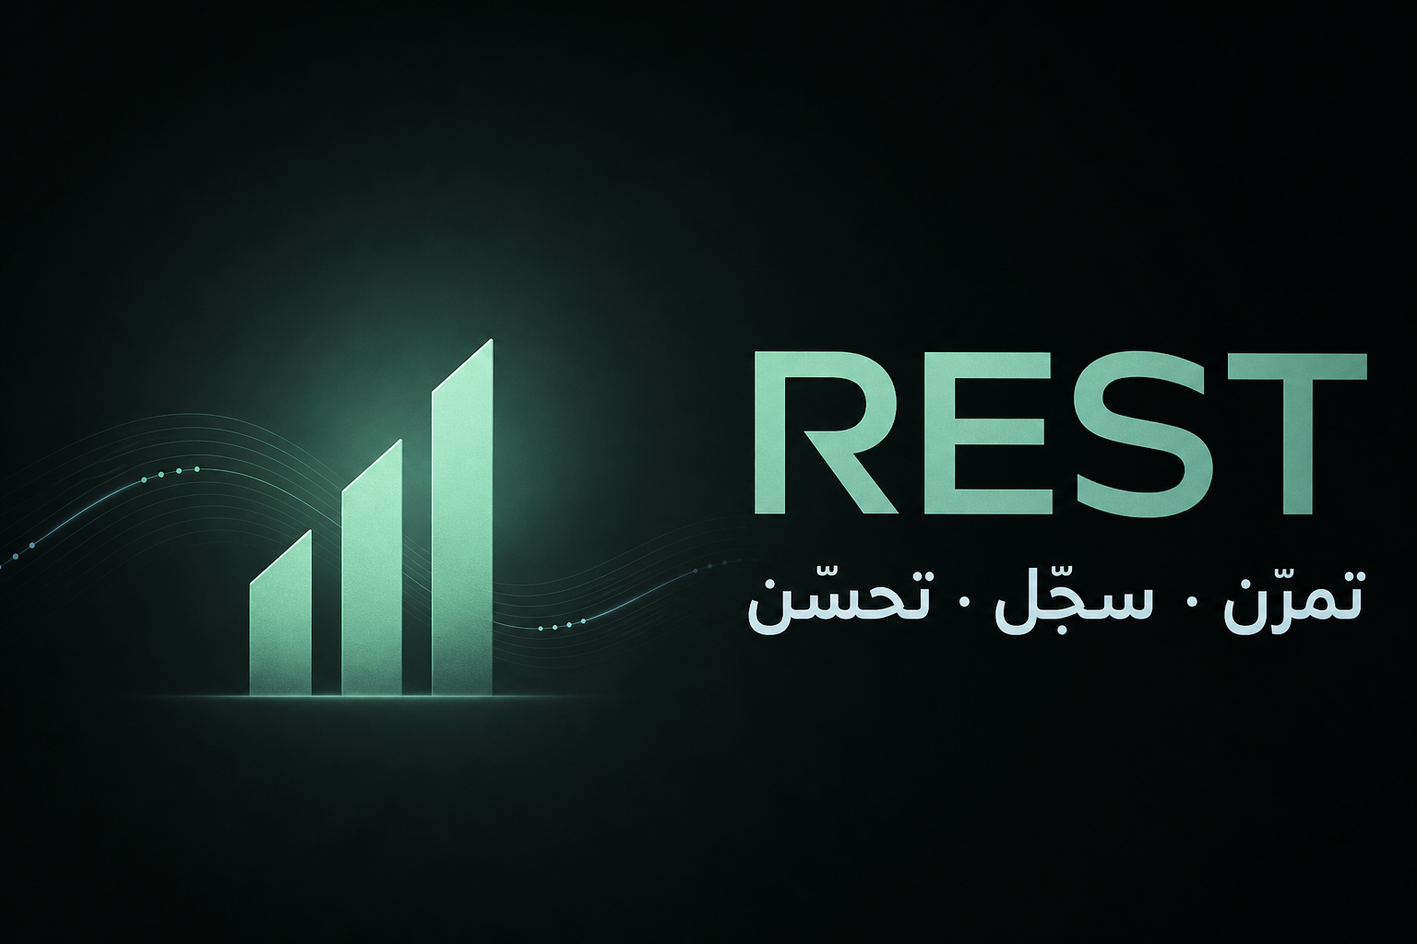
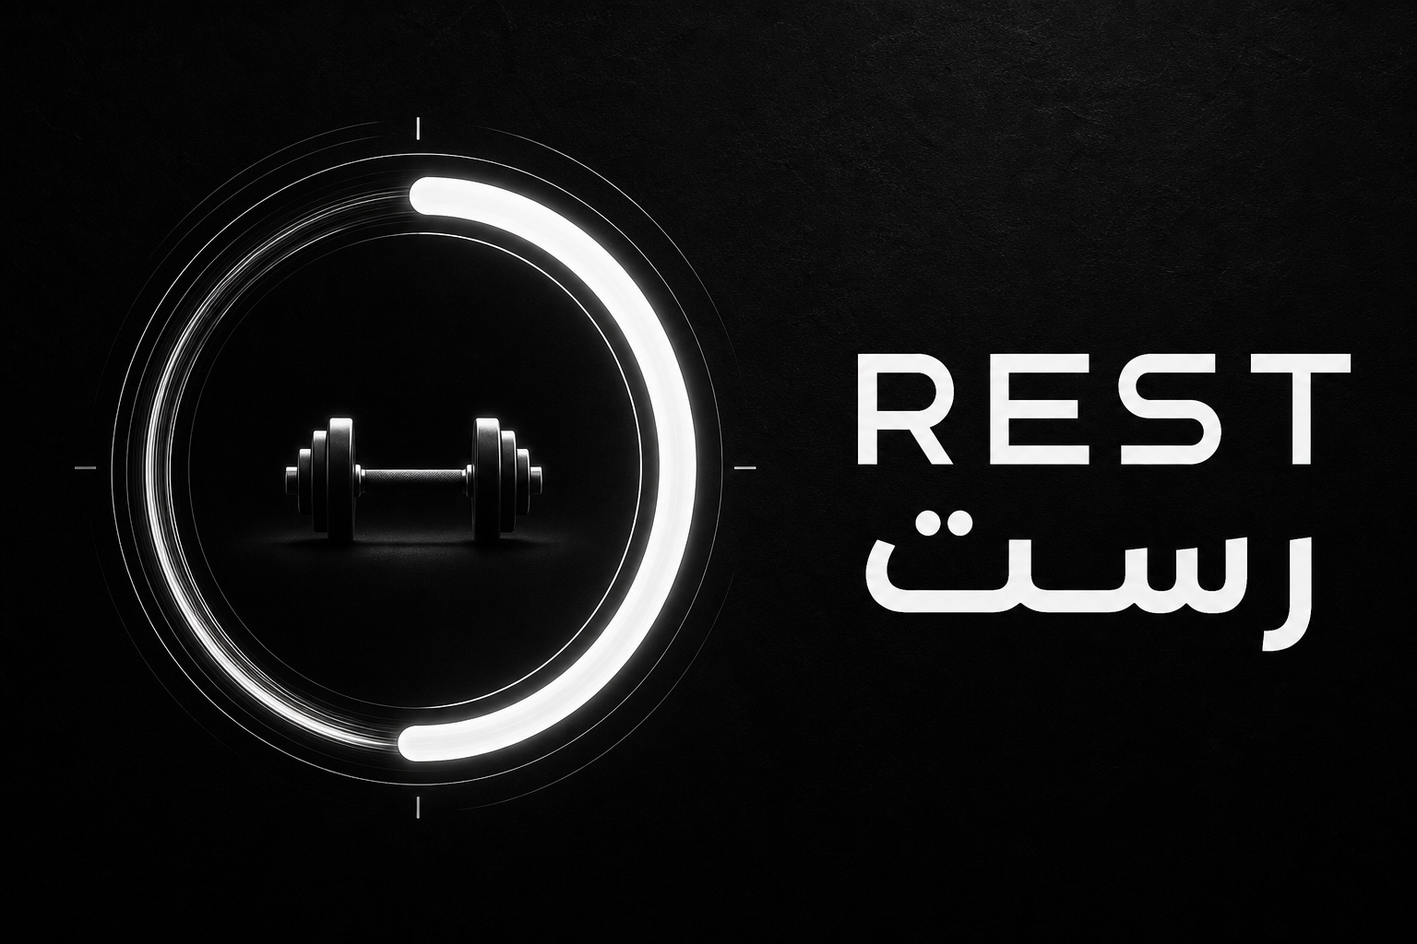
Redesign REST mobile fitness experience

diff --git a/web/app/page.tsx b/web/app/page.tsx
@@ -189,6 +189,14 @@ function formatDuration(startedAt: string) {
   return hours ? `${hours}:${String(minutes % 60).padStart(2, "0")}` : `${minutes} د`;
 }
 
+function mealEmoji(category: string) {
+  const emojis: Record<string, string> = {
+    "فطور": "🥣", "غداء": "🍛", "عشاء": "🍽", "سناك": "🍎",
+    "قبل التمرين": "⚡", "بعد التمرين": "💪",
+  };
+  return emojis[category] ?? "🍴";
+}
+
 function sumMeal(meals: Meal[]) {
   return meals.reduce(
     (sum, meal) => ({
@@ -716,16 +724,14 @@ export default function Home() {
 
   const todayContent = (
     <>
-      <header className="page-heading">
-        <div>
-          <p className="eyebrow">{todayLabel}</p>
-          <h1>صباح القوة يا OREZ</h1>
-        </div>
-        <div className="sync-badge"><span /> {supabaseConfigured ? "Supabase + حفظ محلي" : "محفوظ محليًا"}</div>
+      <header className="daily-heading">
+        <div className="daily-date"><span className="pulse-dot" /> {todayLabel}</div>
+        <h1>تحرّك على إيقاعك.</h1>
+        <p>خطوة صغيرة الآن، وأثر كبير لاحقًا.</p>
       </header>
 
       {data.activeWorkout ? (
-        <section className="hero-card active-hero">
+        <section className="daily-focus active-hero">
           <div className="hero-icon"><Activity size={24} /></div>
           <div>
             <p>تمرين جارٍ الآن</p>
@@ -737,40 +743,41 @@ export default function Home() {
           </button>
         </section>
       ) : (
-        <section className="hero-card">
-          <div className="hero-icon"><Dumbbell size={24} /></div>
+        <section className="daily-focus">
+          <div className="focus-number">01</div>
           <div>
-            <p>التمرين</p>
-            <h2>ماذا ستنجز اليوم؟</h2>
-            <span>ابدأ بحصة فارغة أو من جدول أنشأته.</span>
+            <p>أولوية اليوم</p>
+            <h2>جاهز لتمرينك؟</h2>
+            <span>ابدأ الآن، واختر التمارين داخل النادي.</span>
           </div>
-          <AppButton onClick={() => startWorkout()} icon={<Plus size={18} />}>ابدأ</AppButton>
+          <AppButton onClick={() => startWorkout()} icon={<ArrowLeft size={18} />}>ابدأ التمرين</AppButton>
         </section>
       )}
 
-      <section className="section-block">
+      <section className="section-block today-pulse">
         <div className="section-title">
-          <div><p className="eyebrow">لقطة اليوم</p><h2>المهم الآن</h2></div>
+          <div><p className="eyebrow">لوحة اليوم</p><h2>كل شيء في لمحة</h2></div>
+          <div className="sync-badge"><span /> {supabaseConfigured ? "متزامن" : "محفوظ على جهازك"}</div>
         </div>
         <div className="status-grid">
           <article className="status-card status-workout">
             <Dumbbell size={20} />
-            <p>التمرين</p>
+            <p>الحركة</p>
             <strong>{data.sessions.length ? "تمارينك محفوظة" : "لم تُسجّل بعد"}</strong>
           </article>
           <article className="status-card status-nutrition">
             <Flame size={20} />
-            <p>السعرات</p>
+            <p>السعرات 🔥</p>
             <strong>{formatNumber(nutrition.calories)}{data.nutritionTarget.calories ? ` / ${formatNumber(data.nutritionTarget.calories)}` : " kcal"}</strong>
           </article>
           <article className="status-card status-protein">
             <Salad size={20} />
-            <p>البروتين</p>
+            <p>البروتين 💪</p>
             <strong>{formatNumber(nutrition.protein)}{data.nutritionTarget.protein ? ` / ${formatNumber(data.nutritionTarget.protein)} غ` : " غ"}</strong>
           </article>
           <article className="status-card status-recovery">
             <HeartPulse size={20} />
-            <p>التعافي</p>
+            <p>التعافي ✨</p>
             <strong>{data.sessions.length ? "قيد التقدير" : "بيانات غير كافية"}</strong>
           </article>
         </div>
@@ -778,12 +785,12 @@ export default function Home() {
 
       <section className="section-block compact-section">
         <div className="section-title">
-          <div><p className="eyebrow">خطوة واحدة</p><h2>إضافة سريعة</h2></div>
+          <div><p className="eyebrow">بضغطة واحدة</p><h2>إضافة سريعة</h2></div>
         </div>
         <div className="quick-actions">
-          <button onClick={() => { setTab("workout"); setWorkoutView("equipment"); setSheet("equipment"); }}><Camera size={20} /><span>جهاز</span></button>
-          <button onClick={() => setSheet("meal")}><Utensils size={20} /><span>وجبة</span></button>
-          <button onClick={() => { setTab("workout"); setSheet("template"); }}><ClipboardList size={20} /><span>جدول</span></button>
+          <button onClick={() => startWorkout()}><Dumbbell size={20} /><span>تمرين الآن</span></button>
+          <button onClick={() => setSheet("meal")}><span className="quick-emoji">🍽</span><span>وجبة</span></button>
+          <button onClick={() => { setTab("workout"); setWorkoutView("equipment"); }}><Camera size={20} /><span>المعدات</span></button>
         </div>
       </section>
     </>
@@ -792,7 +799,7 @@ export default function Home() {
   const workoutContent = (
     <>
       <header className="page-heading">
-        <div><p className="eyebrow">تمرّن بطريقتك</p><h1>التمرين</h1></div>
+        <div><p className="eyebrow">بلا جداول معقدة</p><h1>التمرين</h1></div>
         <button className="icon-button surface" onClick={() => setWorkoutView("equipment")} aria-label="إدارة المعدات"><Settings2 size={20} /></button>
       </header>
       {data.activeWorkout ? (
@@ -802,7 +809,7 @@ export default function Home() {
       ) : null}
       {workoutView !== "active" && (
         <div className="segment-control" role="tablist" aria-label="أقسام التمرين">
-          <button className={workoutView === "templates" ? "selected" : ""} onClick={() => setWorkoutView("templates")}>جداولي</button>
+          <button className={workoutView === "templates" ? "selected" : ""} onClick={() => setWorkoutView("templates")}>ابدأ الآن</button>
           <button className={workoutView === "equipment" ? "selected" : ""} onClick={() => setWorkoutView("equipment")}>المعدات</button>
         </div>
       )}
@@ -810,11 +817,10 @@ export default function Home() {
       {workoutView === "templates" && (
         <section className="section-block">
           <div className="section-title">
-            <div><p className="eyebrow">بدون خطط جاهزة</p><h2>جداولك</h2></div>
-            <button className="text-action" onClick={() => setSheet("template")}><Plus size={17} /> إنشاء</button>
+            <div><p className="eyebrow">ادخل النادي وابدأ</p><h2>تمرين مباشر</h2></div>
           </div>
           {data.templates.length === 0 ? (
-            <EmptyState icon={<FolderPlus size={27} />} title="ابنِ جدولك الأول" body="أضف معداتك وتمارينك، ثم رتّبها في جدول خاص بك." action={<AppButton onClick={() => setSheet("template")} icon={<Plus size={18} />}>إنشاء جدول</AppButton>} />
+            <EmptyState icon={<Dumbbell size={27} />} title="ابدأ من أرض النادي" body="أنشئ حصة، أضف تمرينك الحالي، وسجّل مجموعاتك فورًا. المعدات محفوظة في قسم مستقل." action={<AppButton onClick={() => startWorkout()} icon={<ArrowLeft size={18} />}>ابدأ تمرينًا</AppButton>} />
           ) : (
             <div className="template-list">
               {data.templates.map((template) => (
@@ -827,7 +833,7 @@ export default function Home() {
               ))}
             </div>
           )}
-          <div className="secondary-cta"><span>أو سجّل حصة غير مخططة</span><AppButton variant="secondary" onClick={() => startWorkout()} icon={<Dumbbell size={18} />}>تمرين فارغ</AppButton></div>
+          <div className="secondary-cta"><span>لا تحتاج خطة جاهزة لتبدأ.</span><AppButton variant="secondary" onClick={() => startWorkout()} icon={<Dumbbell size={18} />}>تمرين جديد</AppButton></div>
         </section>
       )}
 
@@ -858,7 +864,7 @@ export default function Home() {
       {workoutView === "active" && data.activeWorkout && (
         <section className="live-workout">
           <div className="live-header">
-            <button className="icon-button surface" onClick={() => setWorkoutView("templates")} aria-label="العودة للجداول"><ChevronLeft size={20} /></button>
+            <button className="icon-button surface" onClick={() => setWorkoutView("templates")} aria-label="العودة لبدء التمرين"><ChevronLeft size={20} /></button>
             <div><p className="eyebrow">حصة جارية · {formatDuration(data.activeWorkout.startedAt)}</p><h1>{data.activeWorkout.name}</h1></div>
             <button className="finish-button" onClick={finishWorkout}>إنهاء</button>
           </div>
@@ -886,9 +892,8 @@ export default function Home() {
                   {latestSetFor(activeExerciseMeta.id) ? (
                     <div className="previous-performance"><TrendingUp size={17} /><span>آخر أداء: <b>{latestSetFor(activeExerciseMeta.id)?.weightKg} كغ × {latestSetFor(activeExerciseMeta.id)?.reps}</b></span></div>
                   ) : <div className="previous-performance muted"><Sparkles size={17} /><span>هذه أول مرة تسجل هذا التمرين.</span></div>}
-                  <div className="set-table" role="table" aria-label="مجموعات التمرين">
-                    <div className="set-row set-head" role="row"><span>النوع</span><span>الوزن</span><span>التكرارات</span><span>RIR</span></div>
-                    {activeExercise.sets.length === 0 ? <p className="no-sets">أضف مجموعة العمل الأولى — ستظهر هنا فور حفظها.</p> : activeExercise.sets.map((set, index) => <div className="set-row" role="row" key={set.id}><span>{set.type === "warmup" ? "إحماء" : `#${index + 1}`}</span><b dir="ltr">{set.weightKg} كغ</b><b dir="ltr">{set.reps}</b><span>{set.rir ?? "—"}</span></div>)}
+                  <div className="set-history" aria-label="مجموعات التمرين">
+                    {activeExercise.sets.length === 0 ? <p className="no-sets">أضف أول مجموعة وستظهر كإنجاز بسيط هنا.</p> : activeExercise.sets.map((set, index) => <article className="set-chip" key={set.id}><span className="set-index">{set.type === "warmup" ? "إحماء" : `مجموعة ${index + 1}`}</span><b dir="ltr">{set.weightKg} <small>كغ</small></b><b dir="ltr">× {set.reps}</b><span>RIR {set.rir ?? "—"}</span></article>)}
                   </div>
                   <form
                     className="quick-set-composer"
@@ -930,21 +935,21 @@ export default function Home() {
           <div><span>السعرات</span><strong>{formatNumber(nutrition.calories)}</strong><small>{data.nutritionTarget.calories ? `من ${formatNumber(data.nutritionTarget.calories)}` : "حدد هدفك"}</small></div>
         </div>
         <div className="macro-summary">
-          <p className="eyebrow">اليوم</p>
-          <h2>{data.nutritionTarget.calories ? `${formatNumber(Math.max(0, data.nutritionTarget.calories - nutrition.calories))} kcal متبقية` : "حدّد أهدافك أولًا"}</h2>
+          <p className="eyebrow">اليوم 🍽</p>
+          <h2>{data.nutritionTarget.calories ? `${formatNumber(Math.max(0, data.nutritionTarget.calories - nutrition.calories))} kcal متبقية` : "حدّد أهدافك أولًا ✨"}</h2>
           <button className="text-action" onClick={openTargetSheet}><Settings2 size={16} /> ضبط الأهداف</button>
         </div>
       </section>
       <div className="macro-grid">
         {[
-          ["بروتين", nutrition.protein, data.nutritionTarget.protein, "protein"],
-          ["كربوهيدرات", nutrition.carbs, data.nutritionTarget.carbs, "carbs"],
-          ["دهون", nutrition.fat, data.nutritionTarget.fat, "fat"],
+          ["بروتين 💪", nutrition.protein, data.nutritionTarget.protein, "protein"],
+          ["كربوهيدرات ⚡", nutrition.carbs, data.nutritionTarget.carbs, "carbs"],
+          ["دهون 🥑", nutrition.fat, data.nutritionTarget.fat, "fat"],
         ].map(([label, current, target, tone]) => <article className="macro-card" key={String(label)}><div><span>{label}</span><b>{formatNumber(Number(current))} غ</b></div><div className="macro-track"><span className={String(tone)} style={{ width: `${Number(target) ? Math.min(100, (Number(current) / Number(target)) * 100) : 0}%` }} /></div><small>{Number(target) ? `من ${formatNumber(Number(target))} غ` : "لا يوجد هدف"}</small></article>)}
       </div>
       <section className="section-block">
         <div className="section-title"><div><p className="eyebrow">وجبات اليوم</p><h2>ما سجلته</h2></div><button className="text-action" onClick={() => setSheet("meal")}><Plus size={17} /> إضافة</button></div>
-        {todayMeals.length === 0 ? <EmptyState icon={<Utensils size={27} />} title="أضف وجبتك الأولى" body="أدخل السعرات والماكروز التي تعرفها، بلا تخمين ولا إلزام بصورة." action={<AppButton onClick={() => setSheet("meal")} icon={<Plus size={18} />}>إضافة وجبة</AppButton>} /> : <div className="meal-list">{todayMeals.map((meal) => <article className="meal-card" key={meal.id}><div className="meal-icon"><Utensils size={20} /></div><div><p>{meal.category} · {formatDate(meal.createdAt)}</p><h2>{meal.name}</h2><span>{formatNumber(meal.protein)} ب · {formatNumber(meal.carbs)} ك · {formatNumber(meal.fat)} د</span></div><strong>{formatNumber(meal.calories)}<small> kcal</small></strong><button className="card-delete" onClick={() => deleteMeal(meal.id)} aria-label={`حذف ${meal.name}`}><Trash2 size={18} /></button></article>)}</div>}
+        {todayMeals.length === 0 ? <EmptyState icon={<Utensils size={27} />} title="أضف وجبتك الأولى 🍽" body="أدخل السعرات والماكروز التي تعرفها، بلا تخمين ولا إلزام بصورة." action={<AppButton onClick={() => setSheet("meal")} icon={<Plus size={18} />}>إضافة وجبة</AppButton>} /> : <div className="meal-list">{todayMeals.map((meal) => <article className="meal-card" key={meal.id}><div className="meal-icon emoji-icon">{mealEmoji(meal.category)}</div><div><p>{meal.category} · {formatDate(meal.createdAt)}</p><h2>{meal.name}</h2><span>{formatNumber(meal.protein)} ب · {formatNumber(meal.carbs)} ك · {formatNumber(meal.fat)} د</span></div><strong>{formatNumber(meal.calories)}<small> kcal</small></strong><button className="card-delete" onClick={() => deleteMeal(meal.id)} aria-label={`حذف ${meal.name}`}><Trash2 size={18} /></button></article>)}</div>}
       </section>
       {pastMealDays.length > 0 && (
         <section className="section-block">

diff --git a/web/app/globals.css b/web/app/globals.css
@@ -78,3 +78,116 @@ button:focus-visible, input:focus-visible, select:focus-visible { outline: 3px s
 
 @media (min-width: 760px) { .app-shell { padding-top: 24px; }.bottom-nav { right: 50%; left: auto; bottom: 20px; width: 510px; padding: 8px; border: 1px solid var(--line); border-radius: 20px; transform: translateX(50%); }.app-shell { padding-bottom: 120px; }.sheet { width: min(100%, 620px); margin: 0 auto; border-radius: 26px 26px 0 0; } }
 @media (prefers-reduced-motion: reduce) { *, *::before, *::after { scroll-behavior: auto !important; animation-duration: .01ms !important; transition-duration: .01ms !important; } }
+
+/* REST 2.0 — monochrome mobile-first interface */
+:root {
+  --ink: #f7f7f5;
+  --muted: #a6a6a1;
+  --subtle: #74746f;
+  --canvas: #080808;
+  --canvas-deep: #030303;
+  --surface: #111111;
+  --surface-raised: #181818;
+  --surface-soft: #222222;
+  --line: rgba(255,255,255,.12);
+  --mint: #f5f5f0;
+  --mint-strong: #ffffff;
+  --blue: #d5d5d1;
+  --sand: #c4c4bf;
+  --danger: #ff968e;
+  --shadow: 0 18px 52px rgba(0,0,0,.52);
+}
+
+body { letter-spacing: -.01em; }
+button:focus-visible, input:focus-visible, select:focus-visible { outline-color: rgba(255,255,255,.5); }
+.app-shell { background: radial-gradient(circle at 16% -4%, rgba(255,255,255,.10), transparent 25%), var(--canvas); }
+.brand { gap: 7px; }
+.brand-mark { background: #f7f7f5; box-shadow: none; }
+.brand-mark span { background: #080808; }
+.brand-ar { color: #f7f7f5; }
+.app-top { margin-bottom: 3px; }
+.icon-button.surface { border-radius: 50%; background: #171717; }
+.daily-heading { padding: 26px 4px 18px; }
+.daily-date { display: inline-flex; align-items: center; gap: 8px; color: var(--muted); font-size: 12px; font-weight: 700; }
+.daily-heading h1 { margin: 13px 0 8px; max-width: 330px; font-size: clamp(38px, 10vw, 50px); line-height: .98; letter-spacing: -.07em; }
+.daily-heading p { margin: 0; color: var(--muted); font-size: 14px; }
+.pulse-dot, .sync-badge span { background: #fff; box-shadow: 0 0 0 4px rgba(255,255,255,.08); }
+.daily-focus { display: grid; grid-template-columns: auto 1fr; align-items: center; gap: 14px; min-height: 151px; padding: 20px; border: 1px solid rgba(255,255,255,.17); border-radius: 28px; background: linear-gradient(140deg, #252525, #111 62%); box-shadow: var(--shadow); }
+.daily-focus > div:nth-child(2) { min-width: 0; }
+.daily-focus p, .daily-focus h2, .daily-focus span { margin: 0; }
+.daily-focus p { color: #c7c7c2; font-size: 12px; font-weight: 800; }
+.daily-focus h2 { margin-top: 4px; font-size: 21px; letter-spacing: -.04em; }
+.daily-focus span { display: block; margin-top: 5px; color: var(--muted); font-size: 12px; line-height: 1.55; }
+.focus-number { align-self: start; color: #fff; font-family: Arial, sans-serif; font-size: 15px; font-weight: 800; letter-spacing: .1em; }
+.daily-focus .app-button { grid-column: 1 / -1; width: 100%; min-height: 48px; border-radius: 14px; }
+.daily-focus.active-hero { display: flex; min-height: auto; }
+.daily-focus.active-hero .hero-icon { color: #fff; background: rgba(255,255,255,.08); }
+.daily-focus.active-hero .round-action { color: #080808; background: #fff; }
+.today-pulse { margin-top: 27px; }
+.section-title { margin-bottom: 12px; }
+.section-title h2 { font-size: 21px; }
+.eyebrow { color: #bdbdb8; letter-spacing: .08em; }
+.status-grid { grid-template-columns: repeat(2, 1fr); gap: 9px; }
+.status-card { min-height: 128px; padding: 15px; border-radius: 20px; background: #121212; }
+.status-card:nth-child(1) { grid-column: span 2; min-height: 100px; display: grid; grid-template-columns: auto 1fr; column-gap: 12px; align-content: center; }
+.status-card:nth-child(1) svg { grid-row: span 2; margin: 0; }
+.status-card svg, .status-workout svg, .status-nutrition svg, .status-protein svg, .status-recovery svg { color: #fff; }
+.status-card strong { font-size: 15px; }
+.quick-actions { gap: 9px; }
+.quick-actions button { min-height: 94px; border-radius: 20px; background: #151515; }
+.quick-actions button:first-child { color: #050505; background: #f5f5f0; }
+.quick-actions button:first-child svg { color: #050505; }
+.quick-actions svg { color: #f6f6f2; }
+.quick-emoji { font-size: 21px; line-height: 20px; }
+.app-button.primary { color: #050505; background: #f5f5f0; }
+.app-button.primary:hover { background: #fff; }
+.app-button.secondary { background: #1c1c1c; }
+.app-button.ghost, .text-action { color: #f5f5f0; }
+.segment-control { margin-top: 4px; padding: 4px; background: #101010; border-radius: 16px; }
+.segment-control button.selected { color: #080808; background: #f5f5f0; }
+.active-strip { color: #f5f5f0; border-color: rgba(255,255,255,.16); background: rgba(255,255,255,.06); }
+.empty-state { padding: 34px 21px; border-style: solid; border-color: var(--line); border-radius: 24px; background: #111; }
+.empty-icon { color: #fff; background: #242424; }
+.equipment-card, .template-card, .meal-card, .session-card { border-radius: 20px; background: #121212; }
+.equipment-image, .template-symbol, .meal-icon, .session-symbol { color: #fff; background: #242424; }
+.emoji-icon { font-size: 22px; }
+.equipment-card span, .meal-card span, .session-card span { color: var(--subtle); }
+.start-mini { color: #080808; background: #f5f5f0; }
+.live-header { padding-top: 12px; }
+.live-metrics article { border-radius: 15px; background: #151515; }
+.live-metrics small { color: #e9e9e4; }
+.exercise-tabs button.selected { border-color: rgba(255,255,255,.55); color: #fff; background: rgba(255,255,255,.1); }
+.exercise-tabs button.add-exercise-tab { color: #080808; background: #f5f5f0; }
+.exercise-log-card { border-radius: 26px; background: #121212; }
+.exercise-log-title > svg, .composer-heading > svg { color: #fff; }
+.previous-performance { color: #deded8; background: #202020; }
+.previous-performance b { color: #fff; }
+.previous-performance.muted { background: #1b1b1b; }
+.set-history { display: grid; gap: 8px; margin: 15px 0; }
+.set-chip { display: grid; grid-template-columns: 1fr auto auto auto; align-items: center; gap: 9px; padding: 13px; border: 1px solid var(--line); border-radius: 15px; background: #191919; animation: set-in .22s ease; }
+.set-chip .set-index { color: var(--muted); font-size: 12px; }
+.set-chip b { color: #fff; font-size: 14px; }
+.set-chip b small, .set-chip > span:last-child { color: var(--subtle); font-size: 10px; font-weight: 600; }
+.no-sets { padding: 18px; border: 1px dashed var(--line); border-radius: 15px; background: #161616; }
+.quick-set-composer { border-color: rgba(255,255,255,.17); border-radius: 20px; background: #1a1a1a; }
+.composer-inputs input, .composer-inputs select, .set-kind-toggle { background: #0b0b0b; }
+.set-kind-toggle button.selected { color: #080808; background: #f5f5f0; }
+.nutrition-summary { border-color: rgba(255,255,255,.17); border-radius: 28px; background: linear-gradient(140deg, #242424, #101010); }
+.calorie-ring { background: conic-gradient(#f5f5f0 var(--progress), rgba(255,255,255,.10) 0); }
+.calorie-ring > div { background: #171717; }
+.macro-card { border-radius: 18px; background: #121212; }
+.macro-track .protein, .macro-track .carbs, .macro-track .fat { background: #f1f1ec; }
+.progress-overview article, .performance-strip article, .insight-card { background: #121212; }
+.progress-overview svg, .insight-card svg { color: #fff; }
+.recovery-card { border-color: var(--line); background: #171717; }
+.recovery-icon { color: #fff; background: #292929; }
+.bottom-nav { border-top-color: rgba(255,255,255,.1); background: rgba(7,7,7,.9); }
+.bottom-nav button.active { color: #fff; }
+.bottom-nav button.active svg { filter: drop-shadow(0 4px 8px rgba(255,255,255,.22)); }
+.sheet { background: #151515; }
+.sheet-handle { background: #6e6e69; }
+.form-stack input, .form-stack select, .check-row { background: #0b0b0b; }
+.form-stack label > span b, .set-target { color: #f5f5f0; }
+.set-target, .photo-upload > div, .photo-upload > img { border-color: rgba(255,255,255,.25); color: #fff; background: #1b1b1b; }
+.toast { border-color: rgba(255,255,255,.24); color: #fff; background: #202020; }
+.toast svg { color: #fff; }

diff --git a/web/app/layout.tsx b/web/app/layout.tsx
@@ -27,7 +27,7 @@ export async function generateMetadata(): Promise<Metadata> {
 }
 
 export const viewport: Viewport = {
-  themeColor: "#0c1210",
+  themeColor: "#080808",
   colorScheme: "dark",
   width: "device-width",
   initialScale: 1,
